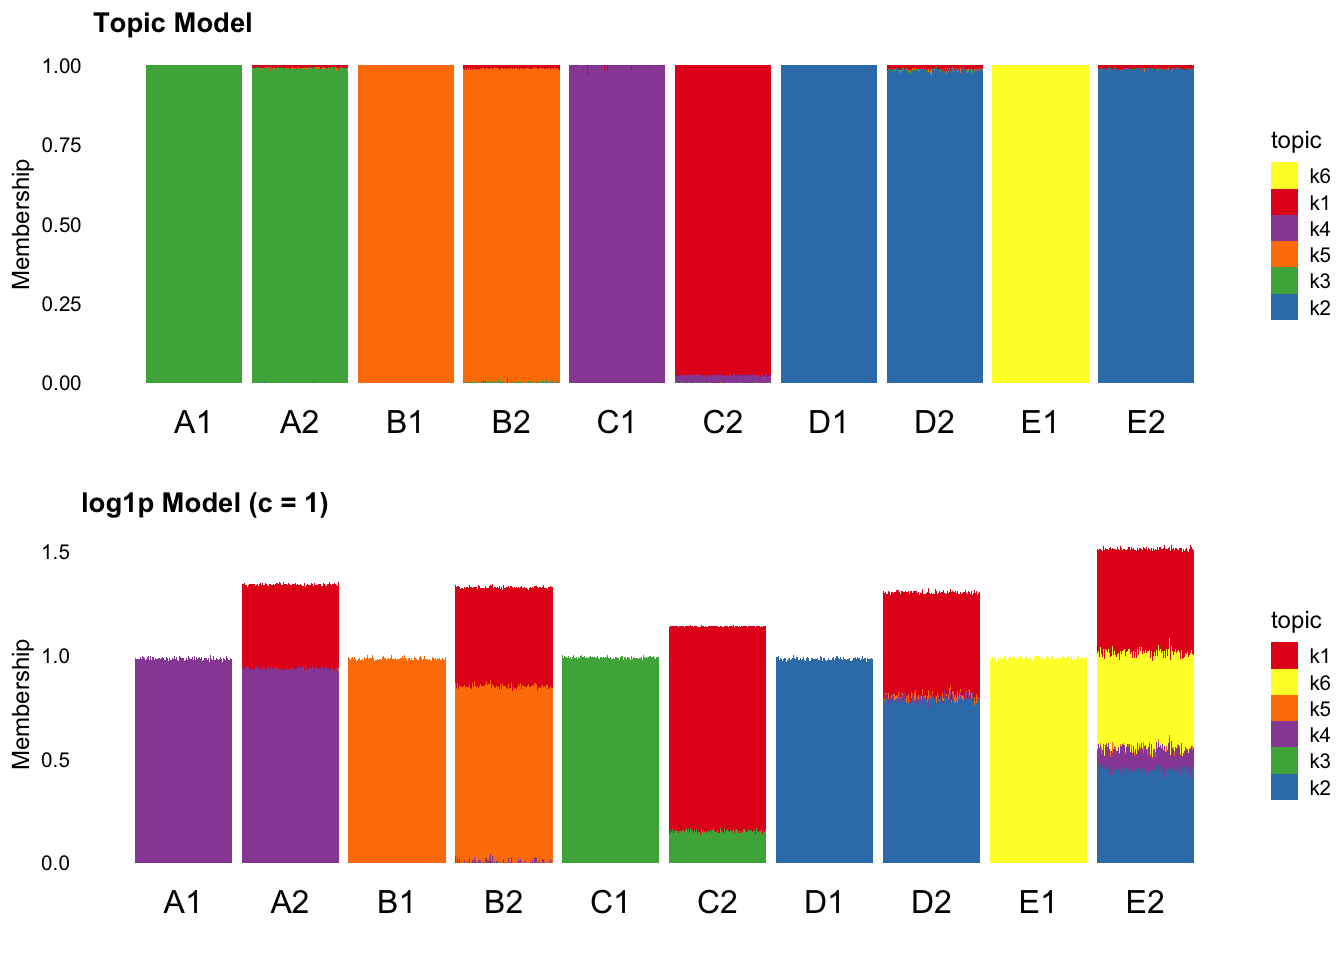
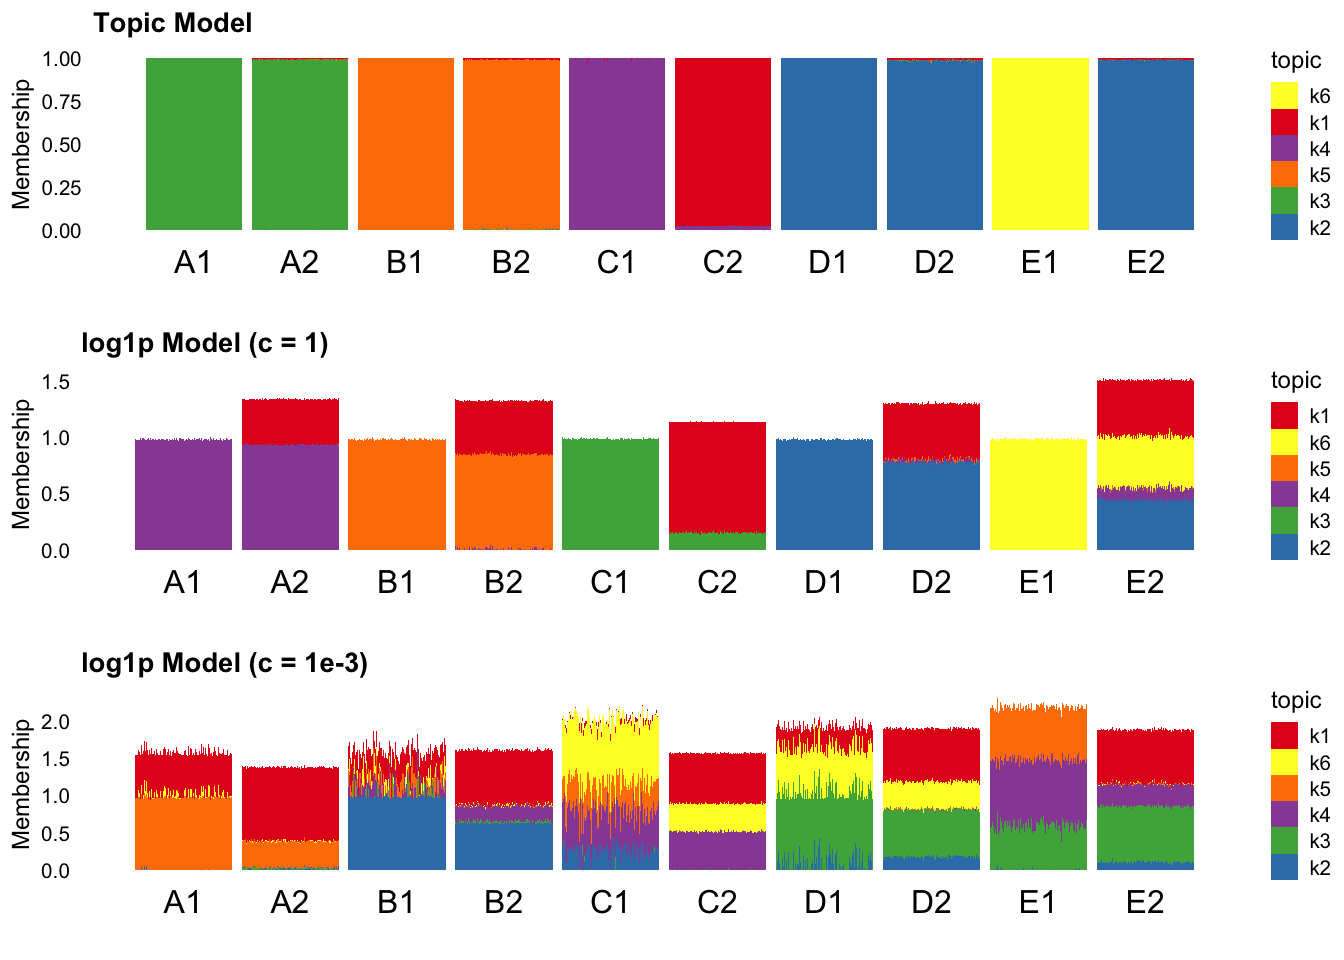
added small c fit to multiplicative simulation

diff --git a/docs/multiplicative_sim.html b/docs/multiplicative_sim.html
@@ -395,7 +395,7 @@ aria-hidden="true"></span> </a>
 <div class="tab-content">
 <div id="summary" class="tab-pane fade in active">
 <p>
-<strong>Last updated:</strong> 2025-08-12
+<strong>Last updated:</strong> 2025-09-02
 </p>
 <p>
 <strong>Checks:</strong> <span
@@ -433,10 +433,10 @@ changes </a>
 <div id="strongRMarkdownfilestronguncommittedchanges"
 class="panel-collapse collapse">
 <div class="panel-body">
-<p>The R Markdown is untracked by Git. To know which version of the R
-Markdown file created these results, you’ll want to first commit it to
-the Git repo. If you’re still working on the analysis, you can ignore
-this warning. When you’re finished, you can run
+<p>The R Markdown file has unstaged changes. To know which version of
+the R Markdown file created these results, you’ll want to first commit
+it to the Git repo. If you’re still working on the analysis, you can
+ignore this warning. When you’re finished, you can run
 <code>wflow_publish</code> to commit the R Markdown file and build the
 HTML.</p>
 </div>
@@ -529,15 +529,15 @@ project makes it easier to run your code on other machines.</p>
 <div class="panel panel-default">
 <div class="panel-heading">
 <p class="panel-title">
-<a data-toggle="collapse" data-parent="#workflowr-checks" href="#strongRepositoryversionstrongahrefhttpsgithubcomeweinelog1pexperimentstreea2e68355b254e33f5ff9a8697d8752aad5f40861targetblanka2e6835a">
+<a data-toggle="collapse" data-parent="#workflowr-checks" href="#strongRepositoryversionstrongahrefhttpsgithubcomeweinelog1pexperimentstreeba53978f0c8e9547fe8b2521ea88efdff8f1b55btargetblankba53978a">
 <span class="glyphicon glyphicon-ok text-success"
 aria-hidden="true"></span> <strong>Repository version:</strong>
-<a href="https://github.com/eweine/log1p_experiments/tree/a2e68355b254e33f5ff9a8697d8752aad5f40861" target="_blank">a2e6835</a>
+<a href="https://github.com/eweine/log1p_experiments/tree/ba53978f0c8e9547fe8b2521ea88efdff8f1b55b" target="_blank">ba53978</a>
 </a>
 </p>
 </div>
 <div
[2 lines of base64/hex data omitted]
 class="panel-collapse collapse">
 <div class="panel-body">
 <p>
@@ -547,7 +547,7 @@ reproducibility.
 </p>
 <p>
 The results in this page were generated with repository version
-<a href="https://github.com/eweine/log1p_experiments/tree/a2e68355b254e33f5ff9a8697d8752aad5f40861" target="_blank">a2e6835</a>.
+<a href="https://github.com/eweine/log1p_experiments/tree/ba53978f0c8e9547fe8b2521ea88efdff8f1b55b" target="_blank">ba53978</a>.
 See the <em>Past versions</em> tab to see a history of the changes made
 to the R Markdown and HTML files.
 </p>
@@ -568,11 +568,8 @@ Ignored files:
     Ignored:    analysis/pancreas_cytokine_S1_cache/
     Ignored:    data/.DS_Store
 
-Untracked files:
-    Untracked:  analysis/multiplicative_sim.Rmd
-
 Unstaged changes:
-    Modified:   analysis/link_simulations2.Rmd
+    Modified:   analysis/multiplicative_sim.Rmd
 
 </code></pre>
 <p>
@@ -587,10 +584,74 @@ have uncommitted changes.
 <hr>
 </div>
 <div id="versions" class="tab-pane fade">
+
 <p>
-There are no past versions. Publish this analysis with
-<code>wflow_publish()</code> to start tracking its development.
+These are the previous versions of the repository in which changes were
+made to the R Markdown (<code>analysis/multiplicative_sim.Rmd</code>)
+and HTML (<code>docs/multiplicative_sim.html</code>) files. If you’ve
+configured a remote Git repository (see <code>?wflow_git_remote</code>),
+click on the hyperlinks in the table below to view the files as they
+were in that past version.
 </p>
+<div class="table-responsive">
+<table class="table table-condensed table-hover">
+<thead>
+<tr>
+<th>
+File
+</th>
+<th>
+Version
+</th>
+<th>
+Author
+</th>
+<th>
+Date
+</th>
+<th>
+Message
+</th>
+</tr>
+</thead>
+<tbody>
+<tr>
+<td>
+Rmd
+</td>
+<td>
+<a href="https://github.com/eweine/log1p_experiments/blob/93a77c0e878eeca8684b3edf0f71044124ff838e/analysis/multiplicative_sim.Rmd" target="_blank">93a77c0</a>
+</td>
+<td>
+Eric Weine
+</td>
+<td>
+2025-08-12
+</td>
+<td>
+added multiplicative simulation
+</td>
+</tr>
+<tr>
+<td>
+html
+</td>
+<td>
+<a href="https://rawcdn.githack.com/eweine/log1p_experiments/93a77c0e878eeca8684b3edf0f71044124ff838e/docs/multiplicative_sim.html" target="_blank">93a77c0</a>
+</td>
+<td>
+Eric Weine
+</td>
+<td>
+2025-08-12
+</td>
+<td>
+added multiplicative simulation
+</td>
+</tr>
+</tbody>
+</table>
+</div>
 <hr>
 </div>
 </div>
@@ -741,8 +802,6 @@ ft_r1_init &lt;- fit_poisson_nmf(
 sp1 &lt;- structure_plot(ft_r1_init, loadings_order = 1:n_cells, grouping = grouping, gap = 10) +
   theme(axis.text.x = element_text(angle = 0,hjust = 0.5, size = 12)) + ylab(&quot;Membership&quot;) + ggtitle(&quot;Topic Model&quot;)
 
-
-
 set.seed(1)
 log1p_fit &lt;- fit_poisson_log1p_nmf(
   Y = Y, K = 6, loglik = &quot;exact&quot;, init_method = &quot;rank1&quot;,
@@ -750,9 +809,55 @@ log1p_fit &lt;- fit_poisson_log1p_nmf(
 )
 
 sp2 &lt;- normalized_structure_plot(log1p_fit, loadings_order = 1:n_cells, grouping = grouping, gap = 10, topics = c(1, rev(2:6))) +
-  theme(axis.text.x = element_text(angle = 0,hjust = 0.5, size = 12)) + ylab(&quot;Membership&quot;) + ggtitle(&quot;log1p Model (c = 1)&quot;)</code></pre>
-<pre class="r"><code>ggarrange(sp1, sp2, nrow = 2, ncol = 1)</code></pre>
+  theme(axis.text.x = element_text(angle = 0,hjust = 0.5, size = 12)) + ylab(&quot;Membership&quot;) + ggtitle(&quot;log1p Model (c = 1)&quot;)
+
+set.seed(1)
+log1p_fit_csmall &lt;- fit_poisson_log1p_nmf(
+  Y = Y, K = 6, loglik = &quot;exact&quot;, init_method = &quot;rank1&quot;,
+  control = list(maxiter = 250, verbose = FALSE), cc = 1e-3
+)
+
+sp3 &lt;- normalized_structure_plot(log1p_fit_csmall, loadings_order = 1:n_cells, grouping = grouping, gap = 10, topics = c(1, rev(2:6))) +
+  theme(axis.text.x = element_text(angle = 0,hjust = 0.5, size = 12)) + ylab(&quot;Membership&quot;) + ggtitle(&quot;log1p Model (c = 1e-3)&quot;)</code></pre>
+<pre class="r"><code>ggarrange(sp1, sp2, sp3, nrow = 3, ncol = 1)</code></pre>
 <p><img src="figure/multiplicative_sim.Rmd/unnamed-chunk-3-1.png" width="672" style="display: block; margin: auto;" /></p>
+<p>
+<button type="button" class="btn btn-default btn-xs btn-workflowr btn-workflowr-fig" data-toggle="collapse" data-target="#fig-unnamed-chunk-3-1">
+Past versions of unnamed-chunk-3-1.png
+</button>
+</p>
+<div id="fig-unnamed-chunk-3-1" class="collapse">
+<div class="table-responsive">
+<table class="table table-condensed table-hover">
+<thead>
+<tr>
+<th>
+Version
+</th>
+<th>
+Author
+</th>
+<th>
+Date
+</th>
+</tr>
+</thead>
+<tbody>
+<tr>
+<td>
+<a href="https://github.com/eweine/log1p_experiments/blob/93a77c0e878eeca8684b3edf0f71044124ff838e/docs/figure/multiplicative_sim.Rmd/unnamed-chunk-3-1.png" target="_blank">93a77c0</a>
+</td>
+<td>
+Eric Weine
+</td>
+<td>
+2025-08-12
+</td>
+</tr>
+</tbody>
+</table>
+</div>
+</div>
 <p>While neither model captures the structure perfectly (which is
 expected because I’m not generating data from a log1p or topic model),
 it is clear that the log1p model is much closer. The topic model, on the
@@ -770,6 +875,43 @@ ggplot(data = gpca_df, aes(x = k_1, y = k_2)) +
   xlab(&quot;PC1&quot;) +
   ylab(&quot;PC2&quot;)</code></pre>
 <p><img src="figure/multiplicative_sim.Rmd/unnamed-chunk-4-1.png" width="672" style="display: block; margin: auto;" /></p>
+<p>
+<button type="button" class="btn btn-default btn-xs btn-workflowr btn-workflowr-fig" data-toggle="collapse" data-target="#fig-unnamed-chunk-4-1">
+Past versions of unnamed-chunk-4-1.png
+</button>
+</p>
+<div id="fig-unnamed-chunk-4-1" class="collapse">
+<div class="table-responsive">
+<table class="table table-condensed table-hover">
+<thead>
+<tr>
+<th>
+Version
+</th>
+<th>
+Author
+</th>
+<th>
+Date
+</th>
+</tr>
+</thead>
+<tbody>
+<tr>
+<td>
+<a href="https://github.com/eweine/log1p_experiments/blob/93a77c0e878eeca8684b3edf0f71044124ff838e/docs/figure/multiplicative_sim.Rmd/unnamed-chunk-4-1.png" target="_blank">93a77c0</a>
+</td>
+<td>
+Eric Weine
+</td>
+<td>
+2025-08-12
+</td>
+</tr>
+</tbody>
+</table>
+</div>
+</div>
 <p>It’s interesting that in only two dimensions you are able to get
 clear clusters, but you do not get a very parts based
 representation.</p>
@@ -833,7 +975,8 @@ loaded via a namespace (and not attached):
 [79] backports_1.5.0     RhpcBLASctl_0.23-42 broom_1.0.6        
 [82] SQUAREM_2021.1      ashr_2.2-66         httpuv_1.6.15      
 [85] bslib_0.9.0         Rcpp_1.0.14         distr_2.9.3        
-[88] xfun_0.52           fs_1.6.6            pkgconfig_2.0.3    </code></pre>
+[88] whisker_0.4.1       xfun_0.52           fs_1.6.6           
+[91] pkgconfig_2.0.3    </code></pre>
 </div>
 </div>
 
